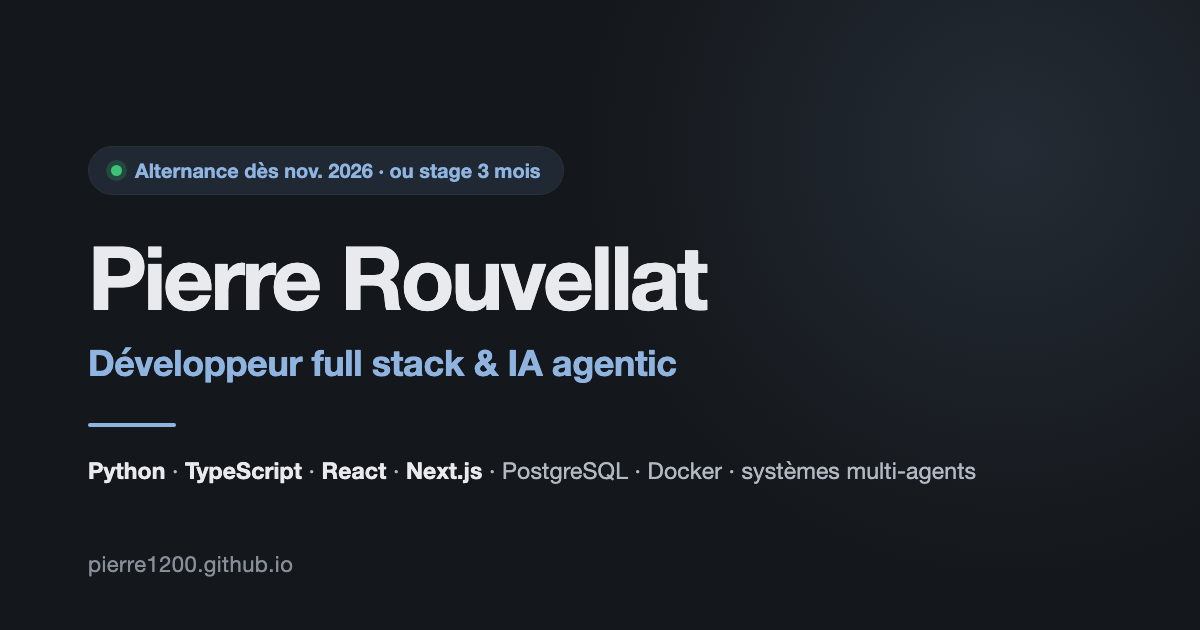
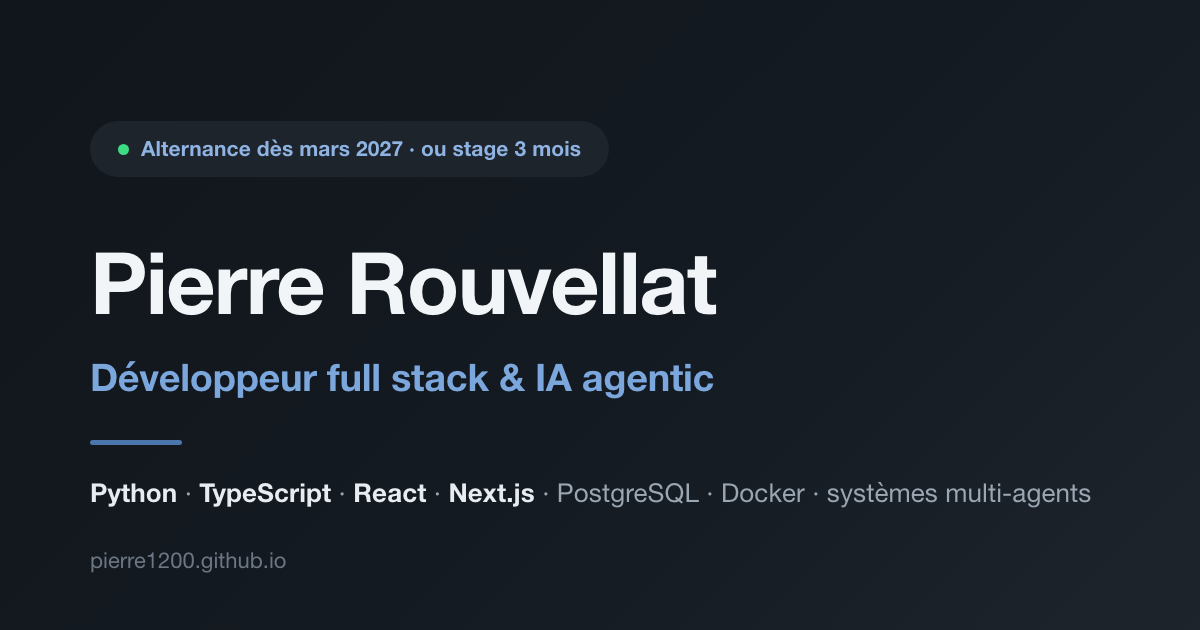
Add new og-source.html file and update availability date in index.html

diff --git a/assets/og-source.html b/assets/og-source.html
@@ -1,0 +1,31 @@
+<!doctype html>
+<html lang="fr"><meta charset="utf-8">
+<style>
+  * { margin:0; padding:0; box-sizing:border-box; }
+  html,body { width:1200px; height:630px; }
+  body {
+    font-family:"Helvetica Neue", Helvetica, Arial, sans-serif;
+    background:linear-gradient(135deg,#11161c 0%,#141a21 55%,#1d242c 100%);
+    color:#eef2f6; padding:0 90px; display:flex; flex-direction:column; justify-content:center;
+    -webkit-font-smoothing:antialiased;
+  }
+  .pill {
+    display:inline-flex; align-items:center; gap:12px; align-self:flex-start;
+    background:#1e242c; border-radius:999px; padding:15px 28px;
+    font-size:21px; font-weight:700; color:#8fb4e3; letter-spacing:.1px;
+  }
+  .dot { width:11px; height:11px; border-radius:50%; background:#3ddc84; display:block; }
+  h1 { font-size:86px; font-weight:800; letter-spacing:-1.6px; margin-top:52px; color:#f2f5f8; }
+  .role { font-size:38px; font-weight:700; color:#7ba7dd; margin-top:20px; letter-spacing:-.3px; }
+  .rule { width:92px; height:5px; border-radius:3px; background:#4a76ad; margin:40px 0 32px; }
+  .stack { font-size:26px; color:#9aa6b2; letter-spacing:.1px; }
+  .stack b { color:#e7ecf1; font-weight:700; }
+  .url { position:absolute; left:90px; bottom:56px; font-size:22px; color:#6d7784; }
+</style>
+<p class="pill"><span class="dot"></span> Alternance dès mars 2027 · ou stage 3 mois</p>
+<h1>Pierre Rouvellat</h1>
+<p class="role">Développeur full stack &amp; IA agentic</p>
+<div class="rule"></div>
+<p class="stack"><b>Python</b> · <b>TypeScript</b> · <b>React</b> · <b>Next.js</b> · PostgreSQL · Docker · systèmes multi-agents</p>
+<p class="url">pierre1200.github.io</p>
+</html>

diff --git a/index.html b/index.html
@@ -47,7 +47,7 @@
 
   <section id="top" class="hero">
     <div class="wrap">
-      <p class="dispo"><span class="dot" aria-hidden="true"></span> Alternance dès novembre&nbsp;2026, ou stage jusqu'à 3&nbsp;mois</p>
+      <p class="dispo"><span class="dot" aria-hidden="true"></span> Alternance dès mars&nbsp;2027, ou stage jusqu'à 3&nbsp;mois</p>
       <h1>Pierre Rouvellat</h1>
       <p class="role">Développeur full stack &amp; IA agentic</p>
       <p class="pitch">
